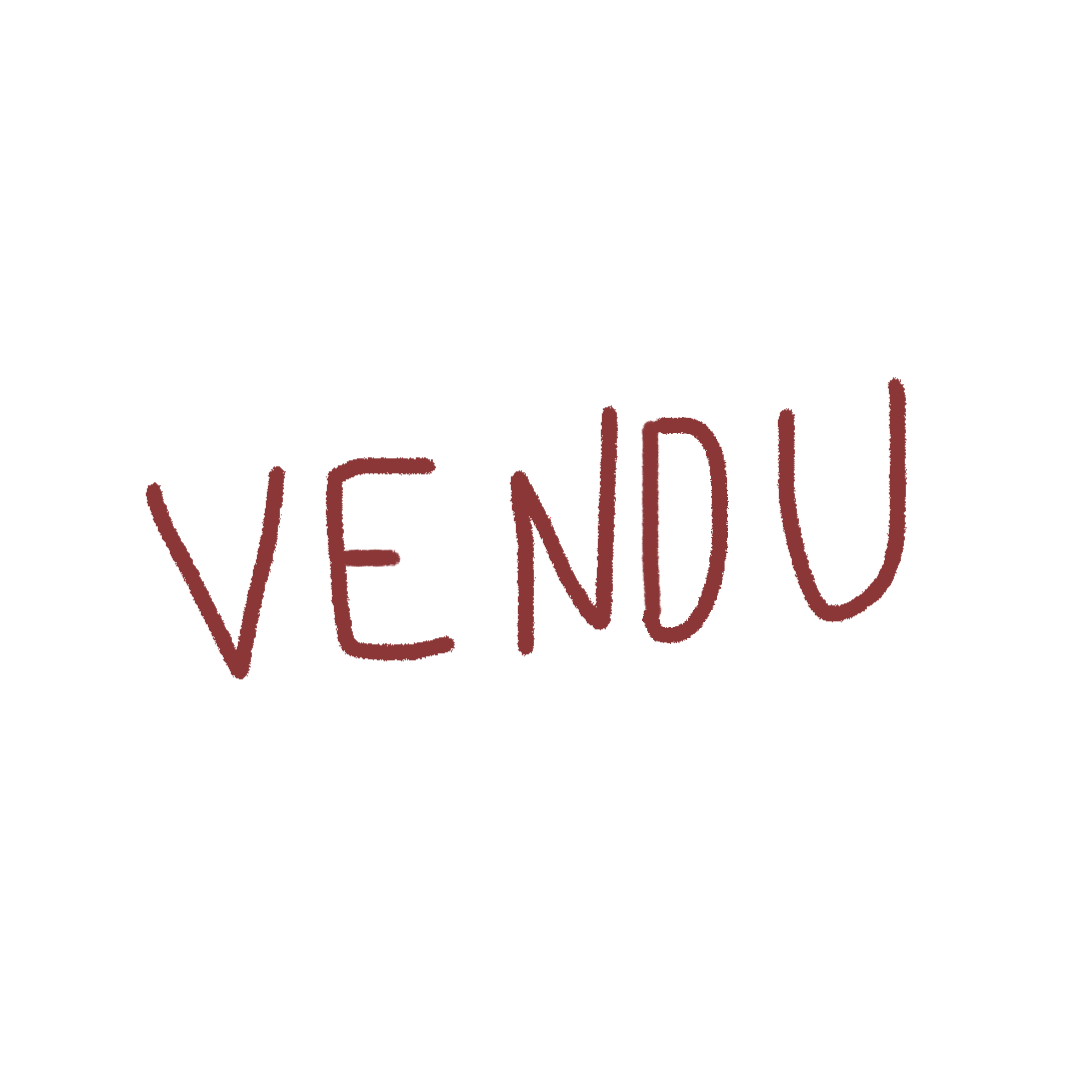
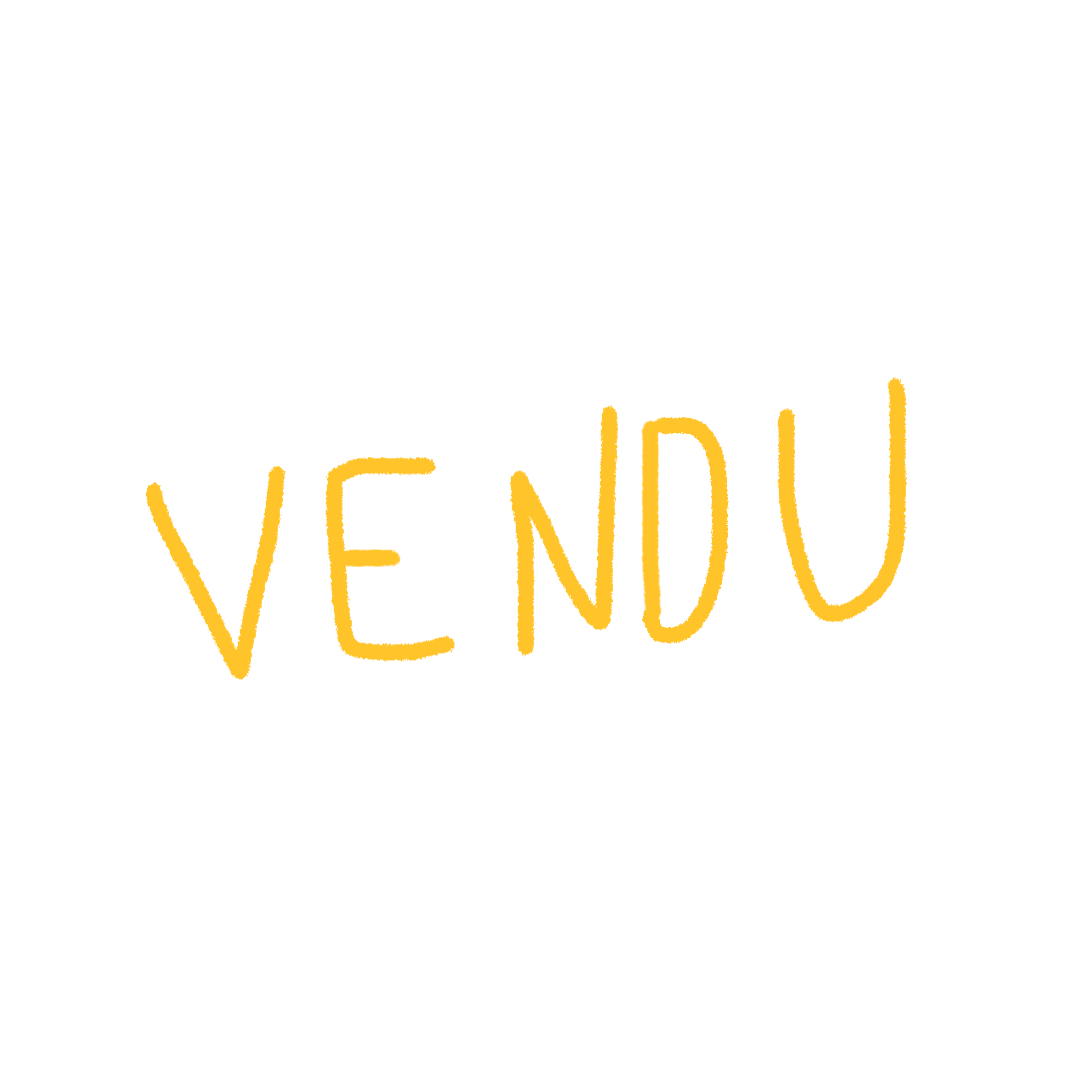
Sold post-it: coin supérieur droit + nouvelle image vendu

Changed region(s): [[0.4583, 0.3667, 0.6722, 0.6111], [0.1222, 0.3972, 0.4278, 0.6417], [0.7028, 0.3361, 0.8556, 0.5806]]

diff --git a/components/ProductCard.module.css b/components/ProductCard.module.css
@@ -131,9 +131,9 @@
 
 .soldWatermark {
   position: absolute;
-  top: 62%;
-  left: 18%;
-  transform: rotate(-4deg);
+  top: 6%;
+  right: 6%;
+  transform: rotate(4deg);
   z-index: 3;
   pointer-events: none;
   background: #FFF0B3;
